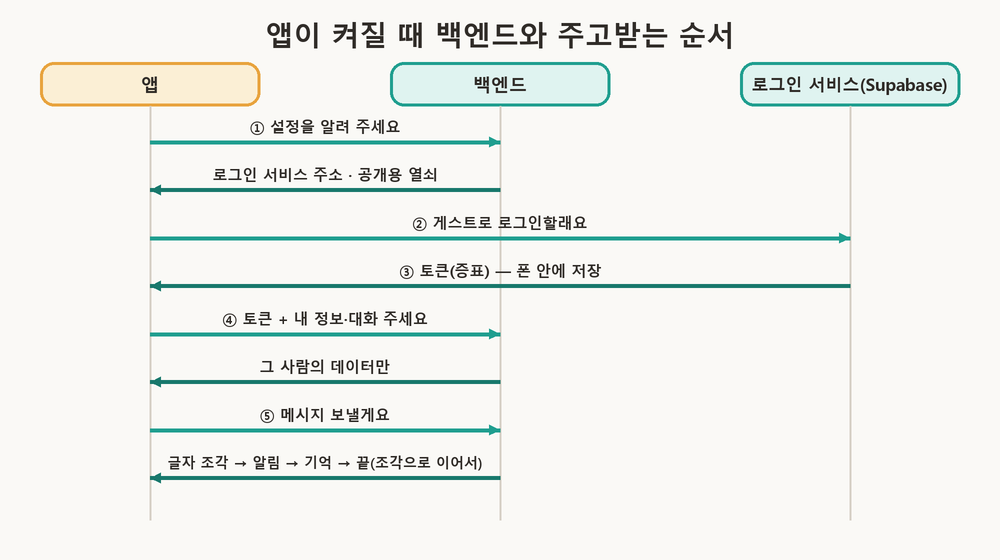
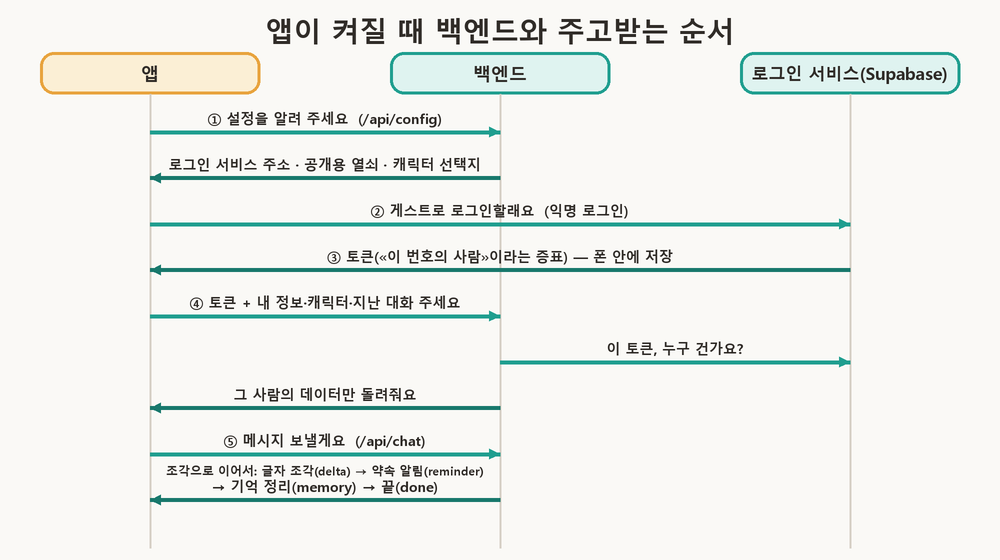
Post 14: add node-to-practice mapping table, replace sequence and file tables with complete figures

diff --git a/ko/expo-mobile-app-with-expo-go.html b/ko/expo-mobile-app-with-expo-go.html
@@ -241,17 +241,7 @@
 
     <h2 id="backend"><span class="hl">앱과 백엔드가 주고받는 것</span> — 켜질 때부터 답을 받을 때까지</h2>
     <p>앱은 화면만 가지고, 데이터와 판단은 모두 백엔드에 있어요. 웹 화면이 하던 일을 폰 화면이 대신하는 것이라 백엔드 API는 하나도 바꾸지 않아요. 템플릿(앱 저장소)의 파일은 역할이 이렇게 나뉘어요.</p>
-    <table>
-      <thead><tr><th>파일</th><th>하는 일</th></tr></thead>
-      <tbody>
-        <tr><td><code>src/app/_layout.tsx</code></td><td>앱 전체 틀. 로그인 상태를 모든 화면이 함께 쓰게 해 주고, 새 화면이 앞 화면 위에 겹쳐 올라오게(뒤로 가기를 누르면 걷히게) 관리해요</td></tr>
-        <tr><td><code>src/app/index.tsx</code></td><td>대화 화면. 캐릭터가 없으면 캐릭터 화면으로 보냄</td></tr>
-        <tr><td><code>src/app/character.tsx</code></td><td>캐릭터 화면</td></tr>
-        <tr><td><code>src/lib/api.ts</code></td><td>백엔드 주소, API 호출, 답 스트리밍 읽기</td></tr>
-        <tr><td><code>src/lib/session.tsx</code>, <code>src/lib/supabase.ts</code></td><td>앱이 켜질 때 설정 읽기와 익명 로그인</td></tr>
-      </tbody>
-    </table>
-    <figure>
+        <figure>
     <svg viewBox="0 0 560 330" style="max-width:600px;margin:0 auto" role="img" aria-label="앱 폴더 구조: src/app 폴더의 파일 하나가 화면 하나이고 src/lib 폴더는 화면 밖의 일을 맡는다. 오른쪽은 대화 화면 위에 캐릭터 화면이 겹쳐 올라온 모습">
       <defs>
         <marker id="ex-t" viewBox="0 0 10 10" refX="9" refY="5" markerWidth="7" markerHeight="7" orient="auto-start-reverse"><path d="M 0 0 L 10 5 L 0 10 z" fill="var(--muted)"/></marker>
@@ -260,13 +250,13 @@
         <text x="16" y="22" font-family="var(--font-heading)" font-size="14" font-weight="700">앱 폴더 (src/)</text>
         <rect x="16" y="32" width="300" height="150" rx="8" fill="none" stroke="var(--accent)" stroke-width="1.6"/>
         <text x="28" y="54" font-weight="700">app/  <tspan font-weight="400" fill="var(--muted)">— 파일 하나 = 화면 하나</tspan></text>
-        <text x="44" y="76">_layout.tsx  <tspan fill="var(--muted)">앱 전체 틀</tspan></text>
+        <text x="44" y="76">_layout.tsx  <tspan fill="var(--muted)">앱 전체 틀 (로그인 상태 공유)</tspan></text>
         <text x="44" y="98">index.tsx  <tspan fill="var(--muted)">대화 화면</tspan></text>
         <text x="44" y="120">character.tsx  <tspan fill="var(--muted)">캐릭터 화면</tspan></text>
         <rect x="16" y="196" width="300" height="122" rx="8" fill="none" stroke="var(--border)" stroke-width="1.6"/>
         <text x="28" y="218" font-weight="700">lib/  <tspan font-weight="400" fill="var(--muted)">— 화면 밖에서 하는 일</tspan></text>
-        <text x="44" y="242">api.ts  <tspan fill="var(--muted)">백엔드 호출·답 읽기</tspan></text>
-        <text x="44" y="264">session.tsx  <tspan fill="var(--muted)">켜질 때 설정·로그인</tspan></text>
+        <text x="44" y="242">api.ts  <tspan fill="var(--muted)">백엔드 주소·API 호출·답 읽기</tspan></text>
+        <text x="44" y="264">session.tsx  <tspan fill="var(--muted)">켜질 때 설정 읽기·익명 로그인</tspan></text>
         <text x="44" y="286">supabase.ts  <tspan fill="var(--muted)">로그인 서비스 연결</tspan></text>
         <text x="350" y="22" font-family="var(--font-heading)" font-size="14" font-weight="700">폰 화면에서는</text>
         <rect x="372" y="40" width="170" height="270" rx="18" fill="none" stroke="var(--border)" stroke-width="1.6"/>
@@ -280,23 +270,13 @@
         <line x1="318" y1="110" x2="370" y2="110" stroke="var(--muted)" stroke-width="1.5" marker-end="url(#ex-t)"/>
       </g>
     </svg>
-    <figcaption>왼쪽은 파일이 놓인 모습, 오른쪽은 폰에서 보이는 모습이에요. <code>app/</code>의 파일이 화면이 되고, 새 화면(캐릭터)은 앞 화면(대화) 위에 겹쳐 올라와요. 뒤로 가기를 누르면 위에 올라온 화면이 걷혀요. 표에서 «쌓아 보여 준다»는 말이 이 모습이에요. <code>lib/</code>의 파일은 화면에 보이지 않는 일을 맡아요.</figcaption>
+    <figcaption>왼쪽은 파일이 놓인 모습, 오른쪽은 폰에서 보이는 모습이에요. <code>app/</code>의 파일이 화면이 되고, 새 화면(캐릭터)은 앞 화면(대화) 위에 겹쳐 올라와요. 뒤로 가기를 누르면 위에 올라온 화면이 걷혀요. «화면을 쌓아 보여 준다»는 말이 이 모습이에요. 캐릭터가 아직 없으면 대화 화면이 캐릭터 화면으로 보내 줘요. <code>lib/</code>의 파일은 화면에 보이지 않는 일을 맡아요.</figcaption>
     </figure>
     <p><code>src/app/</code> 폴더는 Expo Router의 규칙을 따라서, 파일 이름이 곧 화면 주소예요. <code>src/app/memories.tsx</code> 를 만들면 <code>/memories</code> 화면이 생겨요. 화면 파일이 <code>fetch</code>를 직접 부르지 않고 <code>api.ts</code>를 거치게 한 이유는, 백엔드 주소와 로그인 토큰을 붙이는 일을 한곳에 모으기 위해서예요.</p>
-    <p>앱을 처음 켜서 메시지 하나의 답을 받을 때까지는 이런 순서예요.</p>
-    <table>
-      <thead><tr><th>순서</th><th>누가 → 누구에게</th><th>무엇을</th></tr></thead>
-      <tbody>
-        <tr><td>1</td><td>앱 → 백엔드</td><td><code>/api/config</code>로 Supabase(로그인과 데이터 저장을 맡는 외부 서비스) 주소, publishable key, 캐릭터 화면 선택지를 요청</td></tr>
-        <tr><td>2</td><td>앱 → Supabase</td><td>익명 로그인으로 게스트 사용자를 만들고 토큰(«이 번호의 사람이에요»를 보여 주는 증표)을 받아 기기에 저장</td></tr>
-        <tr><td>3</td><td>앱 → 백엔드</td><td>토큰을 붙여 내 정보, 캐릭터, 지난 대화를 요청. 백엔드는 토큰이 누구인지 Supabase에 확인하고 그 사용자의 데이터만 돌려줌</td></tr>
-        <tr><td>4</td><td>앱 → 백엔드</td><td>메시지를 <code>/api/chat</code>으로 보냄</td></tr>
-        <tr><td>5</td><td>백엔드 → 앱</td><td>답이 한 번에 오지 않고 조각으로 이어서 흘러옴(스트리밍), 한 줄에 이벤트 하나씩: 글자 조각 <code>delta</code>, 약속이 만들어졌을 때 <code>reminder</code>, 기억 정리 결과 <code>memory</code>, 끝을 알리는 <code>done</code></td></tr>
-      </tbody>
-    </table>
+    <p>앱을 처음 켜서 메시지 하나의 답을 받을 때까지는 이런 순서예요. 답은 한 번에 오지 않고 조각으로 이어서 흘러와요(스트리밍).</p>
     <figure>
     <img src="images/expo-6-app-backend-sequence.png" alt="앱, 백엔드, 로그인 서비스 사이에서 설정 요청, 게스트 로그인, 토큰 받기, 데이터 요청, 메시지 보내기와 조각으로 이어지는 답이 오가는 순서도" style="max-width:100%;height:auto;">
-    <figcaption>위 표를 그림으로 그린 거예요. 앱을 켜면 위에서 아래로 이 순서대로 요청이 오가요.</figcaption>
+    <figcaption>앱을 켜면 위에서 아래로 이 순서대로 요청이 오가요. 화살표는 «누가 누구에게»이고, 괄호는 실제 주소(API 경로)와 이벤트 이름이에요.</figcaption>
     </figure>
     <p>React Native의 기본 <code>fetch</code>는 이렇게 조금씩 오는 응답을 읽지 못해서, 템플릿은 Expo의 <code>expo/fetch</code>로 줄 단위로 읽어 글자를 이어 붙여요. 앱에 넣는 설정은 백엔드 주소(<code>EXPO_PUBLIC_API_URL</code>) 하나뿐이에요.</p>
 
@@ -438,6 +418,24 @@ npx expo start --clear</code></pre>
     <figcaption>녹화에서 뽑은 장면: 빈 판 → 진한 도장 → 연한 도장 → 껐다 켠 뒤.</figcaption>
     </figure>
     <p><strong>확인한 것.</strong> 폰에서 칸을 누르면 진동이 느껴졌고, 앱을 완전히 종료했다 다시 열어도 도장이 남았어요. 노트북 브라우저(<code>localhost:8081</code>)에서도 같은 앱이 열렸고 브라우저 저장소에 <code>{"2026-11-05":{"water":2}}</code>가 적혔는데, 이건 폰의 저장소와 <strong>별개의 공책</strong>이라서 폰에서 찍은 도장은 브라우저에 보이지 않았어요. 진동(<code>expo-haptics</code>)은 SDK 58 문서에 Expo Go 지원 여부가 적혀 있지 않았는데, 내 아이폰의 Expo Go에서 직접 해 보니 느껴졌어요. 한계도 있어요. 안드로이드 폰에서는 해 보지 않았고, 다른 사람 폰에 설치하려면 앱 파일을 빌드해야 하는데 이번에는 하지 않았어요(아이폰에 Expo Go 밖에서 설치하려면 유료 Apple 개발자 계정이 필요해요).</p>
+
+    <h3>오늘 노드의 내용이 내 실습에 반영된 곳</h3>
+    <p>이 글의 설명이 내 앱에서 어디에 나타났는지, 얼마나 확인했는지 표로 정리했어요. 확인하지 못한 것은 못 했다고 적었어요.</p>
+    <table>
+      <thead><tr><th>노드의 내용</th><th>내 실습에서 나타난 곳</th><th>확인한 정도</th></tr></thead>
+      <tbody>
+        <tr><td>웹과 앱은 화면 코드가 있는 곳이 다르다</td><td>같은 도장 코드를 폰 Expo Go와 브라우저(<code>localhost:8081</code>)에서 열었어요</td><td>직접 확인</td></tr>
+        <tr><td>기억해 두는 곳은 기기마다 따로다</td><td>폰에서 찍은 도장이 브라우저에는 안 보였고, 브라우저 저장소에는 <code>{"2026-11-05":{"water":2}}</code>가 따로 적혔어요</td><td>직접 확인</td></tr>
+        <tr><td>앱에는 빌드가 필요하다</td><td>이번에는 앱 파일을 만들지 않고 Expo Go만 썼어요. 그래서 다른 사람 폰에는 설치할 수 없어요</td><td>하지 않음(한계로 정리)</td></tr>
+        <tr><td>개발 중에는 Expo Go가 노트북의 코드를 받아 실행한다</td><td><code>npx expo start</code>를 켜니 폰 Expo Go 홈의 «DEVELOPMENT SERVERS»에 <code>routine-stamp-mobile</code>이 자동으로 떴어요(<code>exp://192.168.185.120:8081</code>)</td><td>직접 확인</td></tr>
+        <tr><td>코드를 저장하면 폰 화면이 바로 바뀐다</td><td>앱이 열리는 것까지는 확인했고, 저장하자마자 바뀌는 시간은 따로 재지 않았어요</td><td>확인 못 함</td></tr>
+        <tr><td>Expo Go로 되는 기능과 안 되는 기능이 있다</td><td>진동(<code>expo-haptics</code>)은 SDK 58 문서에 Expo Go 지원 여부가 적혀 있지 않았는데, 내 iPhone에서 직접 해 보니 됐어요</td><td>직접 확인</td></tr>
+        <tr><td>앱은 화면, 백엔드는 데이터·판단을 맡는다</td><td>루틴 도장은 서버가 없어서 해당 없음. 사진 → OCR 실습에서 노트북 서버로 다룰 예정이에요</td><td>진행 중</td></tr>
+        <tr><td>숨길 값은 앱 파일에 넣지 않는다</td><td>루틴 도장에는 숨길 값이 없어요. Expo 액세스 토큰은 <code>.env</code>가 아니라 터미널에만 입력했어요</td><td>직접 한 것</td></tr>
+        <tr><td>연결이 안 될 때 오류 문구부터 읽는다</td><td>«Expo Go와 Expo CLI 모두 로그인 필요» 오류를 노트북은 액세스 토큰, 폰은 비밀번호 만들기로 풀었어요(아래 «막힌 곳»)</td><td>직접 겪고 해결</td></tr>
+      </tbody>
+    </table>
+    <p>사진을 찍어 글자를 읽는 OCR과 노트북 서버(백엔드) 실습은 아직 하지 않았어요. 루틴 도장에 «루틴 목록 사진을 도장 칸으로» 만드는 기능을 붙이면서 이어서 해 보고, 끝나면 이 글에 더할 거예요.</p>
 
     <h2 id="judgement"><span class="hl">실무에서 이렇게 판단해요</span> — 자주 틀리는 8가지 상황</h2>
     <p>앱 만들기를 배우고 나서 가장 자주 틀리는 것은 개념이 아니라 «이 상황에서 어떻게 하겠는가»예요. 개념은 아는데 상황과 연결돼 있지 않으면, 현장에서는 «이거 앱을 다시 만들어야 하나?»에서 막혀요. 그래서 상황별로 <strong>판단 규칙 한 줄, 비유 한 줄, 사례표</strong>를 모았어요. 제 앱 «루틴 도장»(도장 세 칸을 누르면 도장이 바뀌는 작은 앱)을 Expo Go에서 직접 돌려 본 것은 사례표에 «직접 확인»이라고 적었어요.</p>
